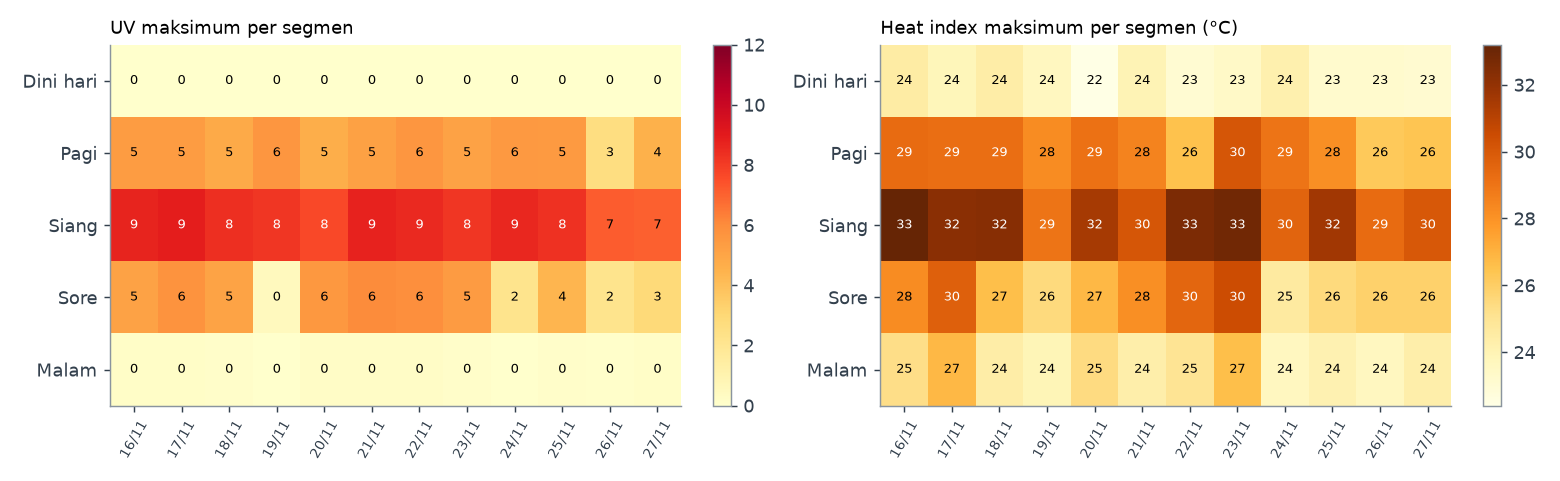
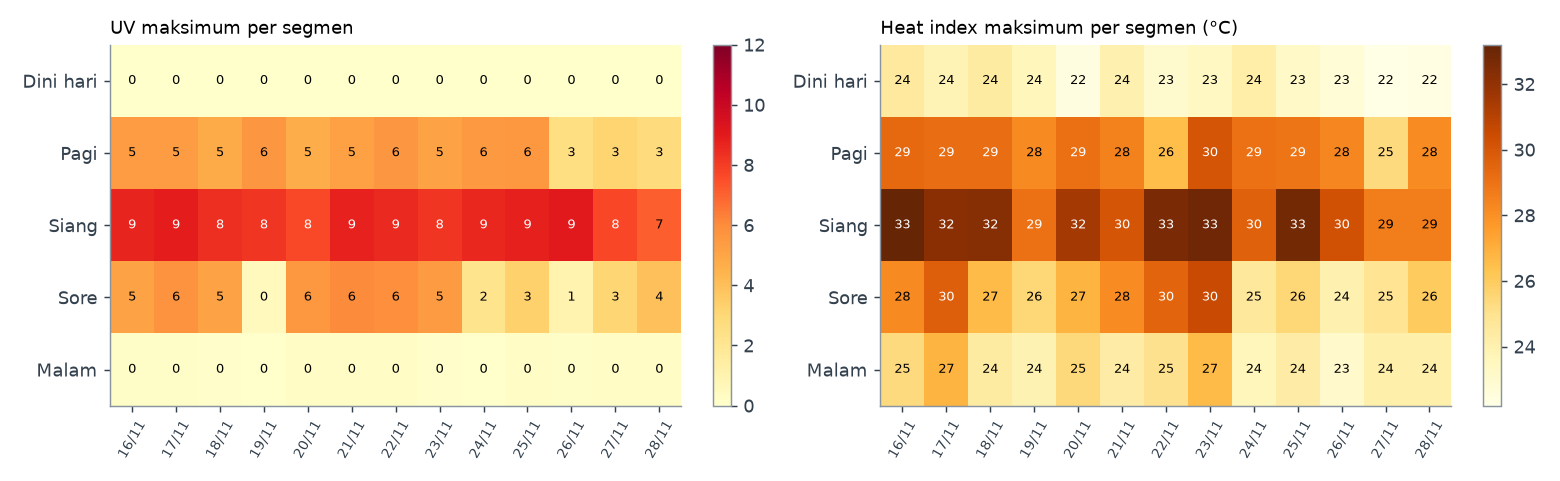
data: update 2026-11-26 02:56 WIB

diff --git a/docs/index.html b/docs/index.html
@@ -32,18 +32,18 @@ footer{margin-top:32px;color:var(--mut);font-size:.82rem}
 footer a,details a{color:var(--accent)}
 </style></head><body><div class="wrap">
 <header><h1>UV dan Heat Index — ITB Ganesha, Bandung</h1>
-<p>Rabu, 25 November 2026 · diperbarui 07:42 WIB · data Open-Meteo</p></header>
+<p>Kamis, 26 November 2026 · diperbarui 02:56 WIB · data Open-Meteo</p></header>
 <section class="kpis">
-<div class="kpi"><div class="l">Puncak UV</div><div class="v">8,3</div>
-<div class="s"><span class="pill" style="background:#d62f2f;color:#ffffff">Sangat tinggi</span> pukul 11:00 WIB</div><div class="s">Perkiraan kasar: kulit sensitif mulai memerah dalam ±20 menit tanpa perlindungan</div></div>
-<div class="kpi"><div class="l">Jam perlu proteksi (UV ≥ 3)</div><div class="v" style="font-size:1.35rem">08:00–16:00</div><div class="s">Jendela aman (UV &lt; 3): 06:00–08:00, 16:00–18:00</div></div>
-<div class="kpi"><div class="l">Heat index tertinggi</div><div class="v">31,6 °C</div><div class="s"><span class="pill" style="background:#f2d600;color:#1b1b1b">Waspada</span></div></div>
+<div class="kpi"><div class="l">Puncak UV</div><div class="v">9,0</div>
+<div class="s"><span class="pill" style="background:#d62f2f;color:#ffffff">Sangat tinggi</span> pukul 12:00 WIB</div><div class="s">Perkiraan kasar: kulit sensitif mulai memerah dalam ±20 menit tanpa perlindungan</div></div>
+<div class="kpi"><div class="l">Jam perlu proteksi (UV ≥ 3)</div><div class="v" style="font-size:1.35rem">10:00–15:00</div><div class="s">Jendela aman (UV &lt; 3): 06:00–10:00, 15:00–18:00</div></div>
+<div class="kpi"><div class="l">Heat index tertinggi</div><div class="v">30,2 °C</div><div class="s"><span class="pill" style="background:#f2d600;color:#1b1b1b">Waspada</span></div></div>
 </section>
 <h2>Ringkasan dan tindakan per segmen waktu</h2>
 <div class="tablewrap"><table><thead><tr><th>Segmen (WIB)</th><th>UV maks</th><th>Heat index maks</th><th>Kepastian</th><th>Tindakan</th></tr></thead>
-<tbody><tr class='past'><td><b>Dini hari</b><br><small>00:00–06:00</small><br><small>Selesai</small></td><td><span class="pill" style="background:#d9dee3;color:#33404d">Tidak ada</span></td><td><span class="n">23,2 °C</span> <span class="pill" style="background:#2e8b3d;color:#ffffff">Aman</span><br><small>suhu rata-rata 22 °C, RH 87%</small></td><td><small>Tinggi · HI 22–24 °C</small></td><td>Tabir surya tidak diperlukan.</td></tr><tr class='now'><td><b>Pagi</b><br><small>06:00–10:00</small><br><small>Berlangsung</small></td><td><span class="n">5,5</span> <span class="pill" style="background:#f2d600;color:#1b1b1b">Sedang</span><br><small>puncak 09:00</small></td><td><span class="n">28,1 °C</span> <span class="pill" style="background:#f2d600;color:#1b1b1b">Waspada</span><br><small>suhu rata-rata 24 °C, RH 79%</small></td><td><small>Tinggi · UV 4,8–5,5 · HI 27–29 °C · CAMS 4,8</small></td><td>SPF 30+ dan kacamata hitam; cari teduh saat terik. Bawa botol minum; minum sebelum haus.</td></tr><tr class=''><td><b>Siang</b><br><small>10:00–15:00</small><br><small>Akan datang</small></td><td><span class="n">8,3</span> <span class="pill" style="background:#d62f2f;color:#ffffff">Sangat tinggi</span><br><small>puncak 11:00</small></td><td><span class="n">31,6 °C</span> <span class="pill" style="background:#f2d600;color:#1b1b1b">Waspada</span><br><small>suhu rata-rata 28 °C, RH 64%</small></td><td><small>Sedang · UV 7,5–8,3 · HI 30–33 °C · CAMS 7,5 · skenario terburuk</small></td><td>Hindari luar ruang tanpa naungan; bila perlu SPF 50+, topi, pakaian menutup. Minum ±250 ml tiap jam secara perlahan; kurangi aktivitas berat. Mendung tidak mengurangi risiko UV. Bawa payung.</td></tr><tr class=''><td><b>Sore</b><br><small>15:00–18:00</small><br><small>Akan datang</small></td><td><span class="n">4,4</span> <span class="pill" style="background:#f2d600;color:#1b1b1b">Sedang</span><br><small>puncak 15:00</small></td><td><span class="n">25,5 °C</span> <span class="pill" style="background:#2e8b3d;color:#ffffff">Aman</span><br><small>suhu rata-rata 24 °C, RH 83%</small></td><td><small>Sedang · UV 1,8–4,4 · HI 24–28 °C · CAMS 1,8 · skenario terburuk</small></td><td>SPF 30+ dan kacamata hitam; cari teduh saat terik. Bawa botol minum; minum sebelum haus. Mendung tidak mengurangi risiko UV. Bawa payung.</td></tr><tr class=''><td><b>Malam</b><br><small>18:00–24:00</small><br><small>Akan datang</small></td><td><span class="pill" style="background:#d9dee3;color:#33404d">Tidak ada</span></td><td><span class="n">24,1 °C</span> <span class="pill" style="background:#2e8b3d;color:#ffffff">Aman</span><br><small>suhu rata-rata 23 °C, RH 90%</small></td><td><small>Tinggi · HI 23–25 °C</small></td><td>Tabir surya tidak diperlukan.</td></tr></tbody></table></div>
+<tbody><tr class='now'><td><b>Dini hari</b><br><small>00:00–06:00</small><br><small>Berlangsung</small></td><td><span class="pill" style="background:#d9dee3;color:#33404d">Tidak ada</span></td><td><span class="n">22,7 °C</span> <span class="pill" style="background:#2e8b3d;color:#ffffff">Aman</span><br><small>suhu rata-rata 22 °C, RH 93%</small></td><td><small>Tinggi · HI 22–24 °C</small></td><td>Tabir surya tidak diperlukan.</td></tr><tr class=''><td><b>Pagi</b><br><small>06:00–10:00</small><br><small>Akan datang</small></td><td><span class="n">2,5</span> <span class="pill" style="background:#2e8b3d;color:#ffffff">Rendah</span><br><small>puncak 09:00</small></td><td><span class="n">28,3 °C</span> <span class="pill" style="background:#f2d600;color:#1b1b1b">Waspada</span><br><small>suhu rata-rata 24 °C, RH 84%</small></td><td><small>Sedang · UV 2,5–5,4 · HI 25–31 °C · CAMS 5,4 · skenario terburuk</small></td><td>SPF 30+ dan kacamata hitam; cari teduh saat terik. Bawa botol minum; minum sebelum haus. Mendung tidak mengurangi risiko UV.</td></tr><tr class=''><td><b>Siang</b><br><small>10:00–15:00</small><br><small>Akan datang</small></td><td><span class="n">9,0</span> <span class="pill" style="background:#d62f2f;color:#ffffff">Sangat tinggi</span><br><small>puncak 12:00</small></td><td><span class="n">30,2 °C</span> <span class="pill" style="background:#f2d600;color:#1b1b1b">Waspada</span><br><small>suhu rata-rata 25 °C, RH 83%</small></td><td><small>Sedang · UV 7,2–9,0 · HI 28–33 °C · CAMS 7,2 · skenario terburuk</small></td><td>Hindari luar ruang tanpa naungan; bila perlu SPF 50+, topi, pakaian menutup. Minum ±250 ml tiap jam secara perlahan; kurangi aktivitas berat. Mendung tidak mengurangi risiko UV. Bawa payung.</td></tr><tr class=''><td><b>Sore</b><br><small>15:00–18:00</small><br><small>Akan datang</small></td><td><span class="n">1,0</span> <span class="pill" style="background:#2e8b3d;color:#ffffff">Rendah</span><br><small>puncak 15:00</small></td><td><span class="n">24,0 °C</span> <span class="pill" style="background:#2e8b3d;color:#ffffff">Aman</span><br><small>suhu rata-rata 23 °C, RH 93%</small></td><td><small>Tinggi · UV 0,8–1,0 · HI 23–25 °C · CAMS 0,8</small></td><td>Aman di luar ruang; tabir surya opsional. Bawa payung.</td></tr><tr class=''><td><b>Malam</b><br><small>18:00–24:00</small><br><small>Akan datang</small></td><td><span class="pill" style="background:#d9dee3;color:#33404d">Tidak ada</span></td><td><span class="n">23,1 °C</span> <span class="pill" style="background:#2e8b3d;color:#ffffff">Aman</span><br><small>suhu rata-rata 22 °C, RH 92%</small></td><td><small>Tinggi · HI 22–24 °C</small></td><td>Tabir surya tidak diperlukan. Bawa payung.</td></tr></tbody></table></div>
 <h2>Pesan hari ini untuk mahasiswa</h2>
-<div class="tablewrap" style="padding:6px 20px"><ul style="padding-left:18px;margin:10px 0"><li>UV hari ini mencapai 8,3 (sangat tinggi) sekitar pukul 11:00. Pakai sunscreen dan cari tempat teduh pada 08:00–16:00.</li><li>Target minimal 8 gelas air putih sehari. Kalau kamu banyak di luar ruang, minum ±250 ml tiap jam secara perlahan. Cek warna pipis: kuning pucat berarti cukup.</li><li>Kombo hari ini: minum cukup + sunscreen + berteduh di jam puncak.</li></ul></div>
+<div class="tablewrap" style="padding:6px 20px"><ul style="padding-left:18px;margin:10px 0"><li>UV hari ini mencapai 9,0 (sangat tinggi) sekitar pukul 12:00. Pakai sunscreen dan cari tempat teduh pada 10:00–15:00.</li><li>Target minimal 8 gelas air putih sehari. Kalau kamu banyak di luar ruang, minum ±250 ml tiap jam secara perlahan. Cek warna pipis: kuning pucat berarti cukup.</li><li>Kombo hari ini: minum cukup + sunscreen + berteduh di jam puncak.</li></ul></div>
 <h2>Grafik</h2><div class="charts"><img src="today.png" alt="UV, heat index, dan suhu per jam hari ini"><img src="trend.png" alt="UV dan heat index maksimum per segmen, 14 hari"></div>
 <details><summary>Cara membaca, asumsi, dan ketidakpastian</summary><ul>
 <li>Nilai per segmen adalah <b>maksimum</b> dalam segmen tersebut (kondisi terburuk). Batas segmen: Dini hari 00–06, Pagi 06–10, Siang 10–15, Sore 15–18, Malam 18–24 WIB.</li>

diff --git a/README.md b/README.md
@@ -10,26 +10,26 @@ Pemantauan intensitas sinar UV dan heat index di kampus ITB Ganesha, Bandung, pe
 ## Kondisi hari ini
 
 <!-- TODAY:START -->
-**Rabu, 25 November 2026** · ITB Ganesha, Bandung · diperbarui 07:42 WIB
+**Kamis, 26 November 2026** · ITB Ganesha, Bandung · diperbarui 02:56 WIB
 
 | Ringkasan hari ini | |
 |---|---|
-| Puncak UV | **8,3** (Sangat tinggi) pukul 11:00 WIB |
-| Jam perlu proteksi (UV ≥ 3) | 08:00–16:00 |
-| Jendela UV aman (< 3) | 06:00–08:00, 16:00–18:00 |
-| Heat index tertinggi | **31,6 °C** (Waspada) |
+| Puncak UV | **9,0** (Sangat tinggi) pukul 12:00 WIB |
+| Jam perlu proteksi (UV ≥ 3) | 10:00–15:00 |
+| Jendela UV aman (< 3) | 06:00–10:00, 15:00–18:00 |
+| Heat index tertinggi | **30,2 °C** (Waspada) |
 
 | Segmen | Jam (WIB) | UV maks | Heat index maks | Kepastian | Tindakan |
 |---|---|---|---|---|---|
-| **Dini hari** | 00:00–06:00 | Tidak ada | **23,2 °C** Aman | Tinggi · HI 22–24 °C | Tabir surya tidak diperlukan. |
-| **Pagi** (berlangsung) | 06:00–10:00 | **5,5** Sedang (09:00) | **28,1 °C** Waspada | Tinggi · UV 4,8–5,5 · HI 27–29 °C · CAMS 4,8 | SPF 30+ dan kacamata hitam; cari teduh saat terik. Bawa botol minum; minum sebelum haus. |
-| **Siang** | 10:00–15:00 | **8,3** Sangat tinggi (11:00) | **31,6 °C** Waspada | Sedang · UV 7,5–8,3 · HI 30–33 °C · CAMS 7,5 · skenario terburuk | Hindari luar ruang tanpa naungan; bila perlu SPF 50+, topi, pakaian menutup. Minum ±250 ml tiap jam secara perlahan; kurangi aktivitas berat. Mendung tidak mengurangi risiko UV. Bawa payung. |
-| **Sore** | 15:00–18:00 | **4,4** Sedang (15:00) | **25,5 °C** Aman | Sedang · UV 1,8–4,4 · HI 24–28 °C · CAMS 1,8 · skenario terburuk | SPF 30+ dan kacamata hitam; cari teduh saat terik. Bawa botol minum; minum sebelum haus. Mendung tidak mengurangi risiko UV. Bawa payung. |
-| **Malam** | 18:00–24:00 | Tidak ada | **24,1 °C** Aman | Tinggi · HI 23–25 °C | Tabir surya tidak diperlukan. |
+| **Dini hari** (berlangsung) | 00:00–06:00 | Tidak ada | **22,7 °C** Aman | Tinggi · HI 22–24 °C | Tabir surya tidak diperlukan. |
+| **Pagi** | 06:00–10:00 | **2,5** Rendah (09:00) | **28,3 °C** Waspada | Sedang · UV 2,5–5,4 · HI 25–31 °C · CAMS 5,4 · skenario terburuk | SPF 30+ dan kacamata hitam; cari teduh saat terik. Bawa botol minum; minum sebelum haus. Mendung tidak mengurangi risiko UV. |
+| **Siang** | 10:00–15:00 | **9,0** Sangat tinggi (12:00) | **30,2 °C** Waspada | Sedang · UV 7,2–9,0 · HI 28–33 °C · CAMS 7,2 · skenario terburuk | Hindari luar ruang tanpa naungan; bila perlu SPF 50+, topi, pakaian menutup. Minum ±250 ml tiap jam secara perlahan; kurangi aktivitas berat. Mendung tidak mengurangi risiko UV. Bawa payung. |
+| **Sore** | 15:00–18:00 | **1,0** Rendah (15:00) | **24,0 °C** Aman | Tinggi · UV 0,8–1,0 · HI 23–25 °C · CAMS 0,8 | Aman di luar ruang; tabir surya opsional. Bawa payung. |
+| **Malam** | 18:00–24:00 | Tidak ada | **23,1 °C** Aman | Tinggi · HI 22–24 °C | Tabir surya tidak diperlukan. Bawa payung. |
 
 **Pesan hari ini untuk mahasiswa**
 
-- UV hari ini mencapai 8,3 (sangat tinggi) sekitar pukul 11:00. Pakai sunscreen dan cari tempat teduh pada 08:00–16:00.
+- UV hari ini mencapai 9,0 (sangat tinggi) sekitar pukul 12:00. Pakai sunscreen dan cari tempat teduh pada 10:00–15:00.
 - Target minimal 8 gelas air putih sehari. Kalau kamu banyak di luar ruang, minum ±250 ml tiap jam secara perlahan. Cek warna pipis: kuning pucat berarti cukup.
 - Kombo hari ini: minum cukup + sunscreen + berteduh di jam puncak.
 
@@ -44,20 +44,20 @@ Pemantauan intensitas sinar UV dan heat index di kampus ITB Ganesha, Bandung, pe
 <!-- HOURLY:START -->
 | Jam | UV | Heat index (°C) | Suhu (°C) | RH (%) | Awan (%) |
 |---:|---:|---:|---:|---:|---:|
-| 05:00 | 0,0 | 21,7 | 21,2 | 88 | 100 |
-| 06:00 | 0,1 | 21,9 | 21,4 | 88 | 84 |
-| 07:00 | 0,5 | 23,4 | 22,8 | 86 | 5 |
-| 08:00 | 3,1 | 25,2 | 24,7 | 76 | 5 |
-| 09:00 | 5,5 | 28,1 | 26,7 | 66 | 30 |
-| 10:00 | 7,5 | 29,9 | 28,4 | 59 | 82 |
-| 11:00 | 8,3 | 31,6 | 29,8 | 55 | 90 |
-| 12:00 | 5,3 | 30,7 | 29,0 | 58 | 100 |
-| 13:00 | 4,0 | 28,3 | 26,6 | 71 | 100 |
-| 14:00 | 7,1 | 28,2 | 26,4 | 76 | 100 |
-| 15:00 | 4,4 | 25,2 | 24,5 | 83 | 100 |
-| 16:00 | 1,4 | 25,5 | 24,8 | 82 | 91 |
-| 17:00 | 0,5 | 24,9 | 24,2 | 85 | 85 |
-| 18:00 | 0,1 | 24,1 | 23,4 | 89 | 91 |
+| 05:00 | 0,0 | 22,5 | 21,9 | 92 | 67 |
+| 06:00 | 0,1 | 23,0 | 22,3 | 92 | 98 |
+| 07:00 | 0,8 | 23,7 | 23,0 | 90 | 88 |
+| 08:00 | 1,4 | 25,2 | 24,6 | 81 | 93 |
+| 09:00 | 2,5 | 28,3 | 26,5 | 74 | 98 |
+| 10:00 | 4,9 | 30,2 | 27,8 | 69 | 100 |
+| 11:00 | 8,9 | 24,6 | 24,0 | 83 | 100 |
+| 12:00 | 9,0 | 25,2 | 24,5 | 85 | 100 |
+| 13:00 | 7,7 | 24,0 | 23,3 | 88 | 100 |
+| 14:00 | 6,5 | 24,2 | 23,5 | 88 | 100 |
+| 15:00 | 1,0 | 24,0 | 23,2 | 92 | 100 |
+| 16:00 | 0,2 | 23,9 | 23,1 | 93 | 100 |
+| 17:00 | 0,4 | 23,7 | 22,9 | 94 | 100 |
+| 18:00 | 0,1 | 22,9 | 22,2 | 94 | 100 |
 <!-- HOURLY:END -->
 
 </details>
